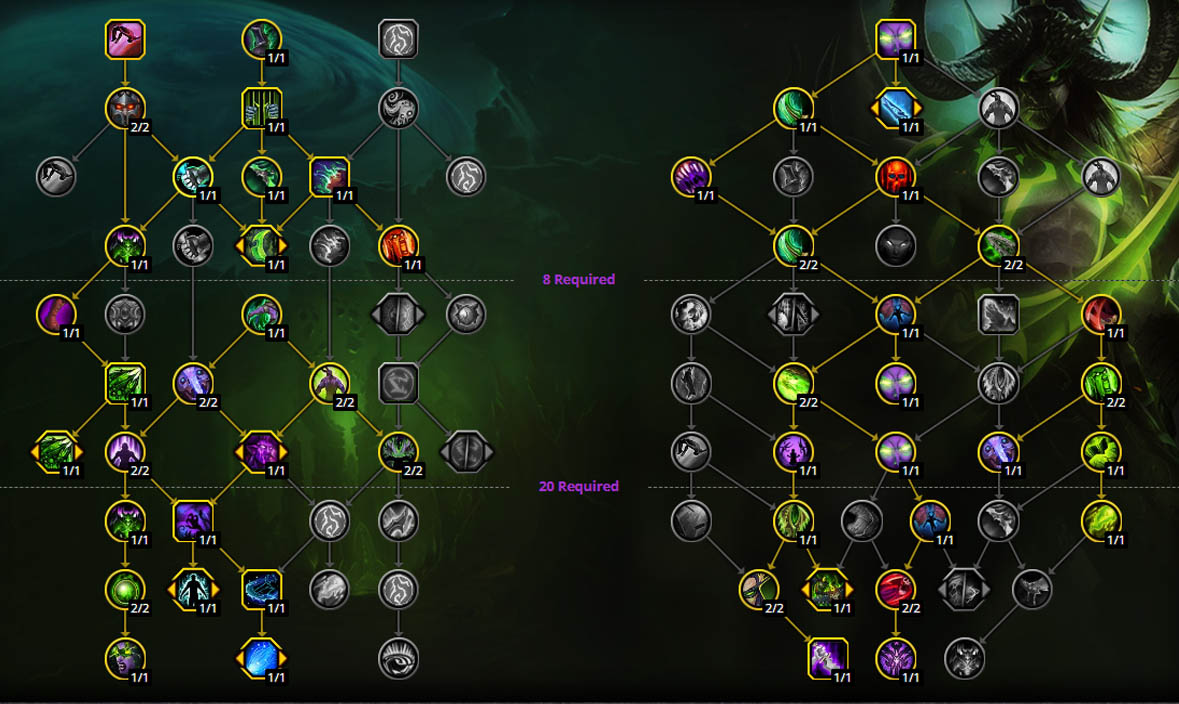
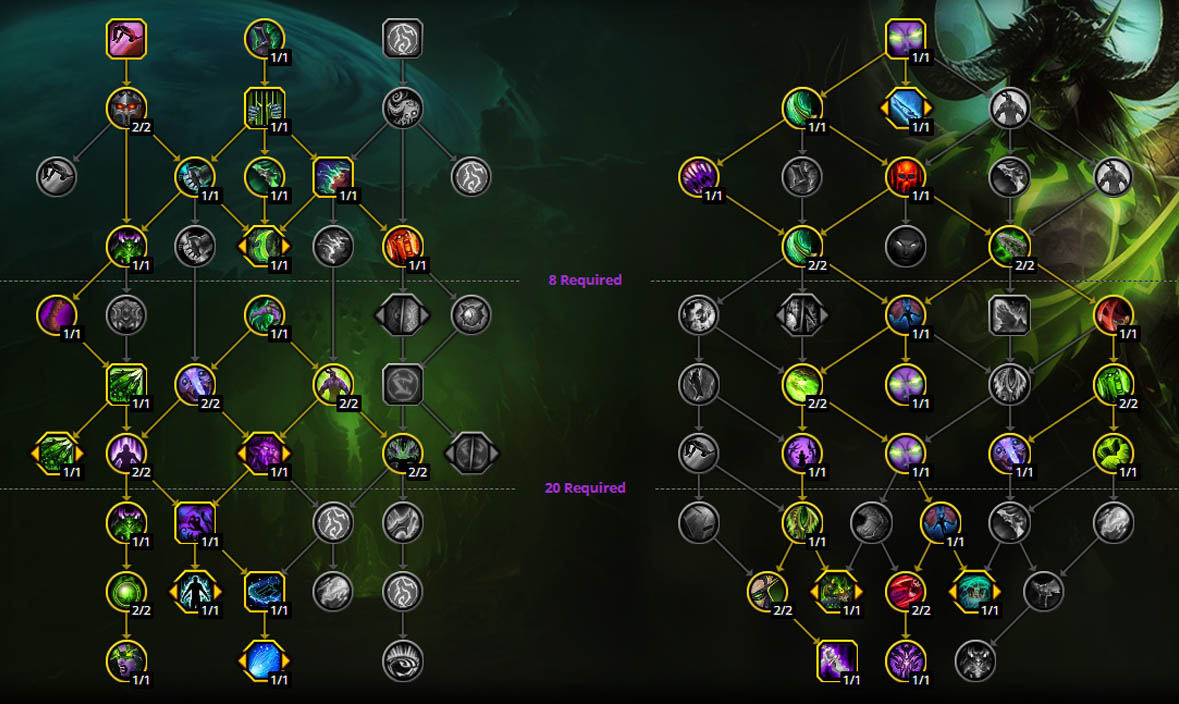
гайд 10.0

diff --git a/guide/havoc/beginners.md b/guide/havoc/beginners.md
@@ -33,13 +33,34 @@ image:
 <div class="tabs" id="tabs-1">
     <div class="tabs__nav">
       <a class="tabs__link tabs__link_active" href="#content-1">СТ/АоЕ/М+</a>
+</div>
 
-    </div>
-    <div class="tabs__content"> 
-      <div class="tabs__pane tabs__pane_show" id="content-1">
-<div class="tabs_in" markdown="1">	 
-Этот билд для Охотника на Демонов Истребления хорошо продуман и подходит для всех типов контента. Для более подробного изучения каждого таланта и более специализированных билдов для конкретных типов контента см. <a href="{{ site.url }}/guide/havoc/talent-builds.html"> Таланты и Билды</a>.
-{% include beginners.html %} 
+<div class="tabs__content"> 
+<div class="tabs__pane tabs__pane_show" id="content-1">
+<div class="tabs_in" markdown="1">	
+
+Билд отлично подойдет для тех кто хочет освоить Охотника на Демонов Истребление, этот билд поможет вам освоиться с основными механиками класса, а так же привыкнуть к использованию коротких бурст кд. Благодаря таланту [Демонический аппетит](https://wowhead.com/ru/spell=206478/) вы не будете испытывать нехватку гнева, а так же у вас не будет проблем с выживаемостью. Короткие КД помогут вам быстро справляться с врагами, что будет довольно полезно во время прокачки в новом дополнении. Так же билд подойдет для подземелий и рейдового контена. 
+
+> Для более подробного изучения каждого таланта и более специализированных билдов для конкретных типов контента см. [Таланты и Билды]({{site.url}}/guide/havoc/talent-builds.html).
+
+<p align="center" width="100%"> <img src="{{ site.url }}/assets/img/guide/havoc/dragonflight/Havoc_Essb_Demonic.jpg" style="outline: 2px solid #000;"> </p>
+
+Строка для импорта
+
+<pre>
+<code class="language-less">
+BEkAAAAAAAAAAAAAAAAAAAAAAQCIhUCSLJRkQpEBAAAAAAQLJBRKkkUgQaRKSSSSSC
+</code>
+</pre>
+
+**Классовая ветка**
+
+В классовой ветке талантов есть таланты которые вы можете поменять под ваш стиль игры:
+
+Вы можете изменить талант [Освобожденная сила](https://www.wowhead.com/ru/spell=206477/) на [Фрагменты Хаоса](https://www.wowhead.com/ru/spell=320412) чтоб получить дополнительные [Малый фрагмент души](https://www.wowhead.com/ru/spell=215393).
+
+Так же вы можете поменять способ использования [Печать страдания](https://www.wowhead.com/ru/spell=207684) - с талантом [Средоточие печатей](https://www.wowhead.com/ru/spell=207666) печать будет применяться под вашим персонажем, а [Точными печатями](https://www.wowhead.com/ru/spell=389799) печать будет применяться под целью которая нахадиться в вашем таргете. Так же вы можете обойти эти таланты через [Затерянные во тьме](https://www.wowhead.com/ru/spell=389849/) если хотите свободно применять [Печать страдания](https://www.wowhead.com/ru/spell=207684).
+
 </div>
       </div>
     </div>
@@ -58,14 +79,21 @@ image:
 <br>
 - Приоритет способностей:
 
-	1. [Метаморфоза](https://ru.wowhead.com/spell=191427)
-	1. {{ site.data.spell.Death_Sweep }} 3+ цели
-	1. [Буря клинков](https://ru.wowhead.com/spell=342817)
-    1. {{ site.data.spell.Eye_Beam }}
-	1. {{ site.data.spell.Immolation_Aura }} 
-	1. {{ site.data.spell.Blade_Dance }} 3+ цели
-    1. {{ site.data.spell.Annihilation }} / {{ site.data.spell.Chaos_Strike }}
-    1. {{ site.data.spell.Demons_Bite }}
+1. [Пронзающий взгляд](https://www.wowhead.com/ru/spell=198013) - сливаем гнев до 70 перед использованием
+1. [Метаморфоза](https://www.wowhead.com/ru/spell=191427) если КД [Пронзающий взгляд](https://www.wowhead.com/ru/spell=198013) больше 5 секунд и [Танец клинков](https://www.wowhead.com/ru/spell=188499/) / [Смертоносный взмах](https://www.wowhead.com/ru/spell=210152) > 2 секунд
+1. [Коварное отступление](https://www.wowhead.com/ru/spell=198793) - придержите использование если до восстановления [Разрыв сущности](https://www.wowhead.com/ru/spell=258860) меньше 10 сек.
+1. [Разрыв сущности](https://www.wowhead.com/ru/spell=258860) - придержите использование если до восстановления [Коварное отступление](https://www.wowhead.com/ru/spell=198793) меньше 10 сек.
+1. [Смертоносный взмах](https://www.wowhead.com/ru/spell=210152)
+1. [Аннигиляция](https://www.wowhead.com/ru/spell=201427) - если активен бафф [Разрыва сущности](https://www.wowhead.com/ru/spell=258860)
+1. [Танец клинков](https://www.wowhead.com/ru/spell=188499/)
+1. [Рывок Скверны](https://www.wowhead.com/ru/spell=195072) активация для активации [Необузданный хаос](https://www.wowhead.com/ru/spell=347461)
+1. [Охота](https://www.wowhead.com/ru/spell=370965) - старайтесь использовать в окно демонизма, но если оно не пересекается с [Разрывом сущности](https://www.wowhead.com/ru/spell=258860)
+1. [Буря клинков](https://www.wowhead.com/ru/spell=342817)
+1. [Обжигающий жар](https://www.wowhead.com/ru/spell=258920)
+1. [Удар Хаоса](https://www.wowhead.com/ru/spell=162794)
+1. [Клинок Скверны](https://www.wowhead.com/ru/spell=213243/) 80 < гнева
+1. [Волшебный поток](https://www.wowhead.com/ru/spell=28730) - ДЛЯ БЭ - если 30<  гнева 
+1. [Бросок боевого клинка](https://www.wowhead.com/ru/spell=185123) филер
 		
 <div style="text-align: -webkit-center; text-align: -moz-center;"><a class="c12 cta-button" href="{{ site.url }}/guide/havoc/rotation-priority.html" data-border="strong" data-markup-content-target="1" data-icon="true">
 <span class="cta-button-icon" style="background-image: url(&quot;https://wow.zamimg.com/images/wow/icons/medium/ability_demonhunter_specdps.jpg&quot;);">
@@ -89,43 +117,46 @@ image:
 
 ### Зачарование
 
-<ul>
-<li>Оружие: 1х {{ site.data.prof.Celestial_Guidance }} и 1х {{ site.data.prof.Sinful_Revelation }}</li>
-<li>Кольца: 2х{{ site.data.prof.Enchant_Ring_Tenet_of_Versatility }}</li>
-<li>Сапоги: {{ site.data.prof.Enchant_Boots_Eternal_Agility }}</li>
-<li>Нагрудник: {{ site.data.prof.Enchant_Chest_Eternal_Stats }}</li>
-<li>Плащ: {{ site.data.prof.Enchant_Cloak_Fortified_Leech }}</li>
-</ul>
+* Кольца: 2х [Посвящение искусности](https://www.wowhead.com/ru/spell=389294) - повышает искусность. / [Посвящение критического удара](https://www.wowhead.com/ru/spell=389292) - повышает шанс критического удара.
+* Сапоги: [Глина дозорного](https://www.wowhead.com/ru/spell=389484) - повышает выносливость.
+* Нагрудник: [Пробужденные характеристики](https://www.wowhead.com/ru/spell=389410/) - повышает основную характеристику. 
+* Плащ: [Завет избежания](https://www.wowhead.com/ru/spell=389397/) - повышает избегание.
+* Наручи: [Посвящение избегания](https://www.wowhead.com/ru/spell=389301) - повышает избегание.
 
-### Настой и  Зелья
-<ul>
-<li>Настой: {{ site.data.prof.Eternal_Flask }}</li>
-<li>Зелья: {{ site.data.prof.Potion_of_Phantom_Fire }} СТ</li>
-<li>Зелья: {{ site.data.prof.Potion_of_Empowered_Exorcisms }} АОЕ</li>
-<li>Исцеление: [Зелье космического исцеления](https://ptr.wowhead.com/spell=359870) </li>
-</ul>
+**Оружие:**
+
+* 2х [Посвящение титанов](https://www.wowhead.com/ru/spell=389550) - повышает основную характеристику.
+
+Для максимально точного подбора зачарований на кольца лучше воспользоваться рейдботсом.
+
+## Настой, Зелья и Руны
+
+* Настой: [Флакон ледового неистовства](https://www.wowhead.com/ru/item=191335)
+* Зелья: [Зелье великой мощи стихий](https://www.wowhead.com/ru/item=191383)
+* Исцеление: [Освежающее лечебное зелье](https://www.wowhead.com/ru/item=191380/)
+* Зелье невидимости [Зелье утихшего ветра](https://www.wowhead.com/ru/item=191395)
+
+Руны
+* [Драконья руна усиления](https://www.wowhead.com/ru/item=201325)
 
 ### Камни
 
-* {{ site.data.prof.Deadly_Jewel_Cluster }} — +16 к вероятности критического удара
-* {{ site.data.prof.Quick_Jewel_Cluster }} — +16 к скорости
-* {{ site.data.prof.Versatile_Jewel_Cluster }} — +16 к универсальности
+* 1 х [Покрытый письменами бесконечный алмаз](https://www.wowhead.com/ru/item=192982) - +200 к основной характеристике и +176 к вероятности критического удара.
+* [Алекстразит сенсея](https://www.wowhead.com/ru/item=192922) - +187 к вероятности критического удара и +88 к искусности.
 
 ### Еда
 
-* {{ site.data.prof.Feast_of_Gluttonous_Hedonism }} —  повышает ловкость на 20.
-* {{ site.data.prof.Phantasmal_Souffle_and_Fries }} —  повышает вероятность критического удара на 30. 
-* {{ site.data.prof.Steak_a_la_Mode }} — повышает  универсальность на 30. 
-* {{ site.data.prof.Tenebrous_Crown_Roast_Aspic }} — повышает скорость на 30.
+* [Филе с клыками](https://www.wowhead.com/ru/item=197779) - повышает вероятность критического удара на 220 на 60 мин.
+* [Запеченный в соли рыбный пирог](https://www.wowhead.com/ru/item=197781) - повышает искусность на 220 на 60 мин.
 
 ### Масло и Заточки для оружия
 
-* Масло:{{ site.data.prof.Shadowcore_Oil }} — При применении к оружию атаки и заклинания в течение 60 мин. с высокой вероятностью наносят противникам 220 ед. дополнительного урона от темной магии. 
-* Точильный камень: {{ site.data.prof.Shaded_Sharpening_Stone }} — Вы точите клинковое оружие, в результате чего сила атаки повышается на 20 на 1 час.
+* [Изначальный абразивный камень](https://www.wowhead.com/ru/item=191950) - повышает силу атаки на 135 на 60 мин.
+* [Жужжащая руна](https://www.wowhead.com/ru/item=194823/) - повышает вероятность критического удара на 827 на 120 мин.
 
 ### Накладки 
 
-* {{ site.data.prof.Heavy_Desolate_Armor_Kit }} — Укрепляет нагрудник, повышая прибавку к выносливости на 32 на 2 часа.
+* [Лютые накладки для брони](https://www.wowhead.com/ru/item=193565) - повышает выносливость на 355. Укрепленные поножи дополнительно повышают силу и ловкость на 472.
 
 <hr>
 

diff --git a/guide/havoc/rotation-priority.md b/guide/havoc/rotation-priority.md
@@ -38,22 +38,22 @@ image:
 <div class="tabs__content">
 <div class="tabs_in" markdown="1">
 
-* В начала боя [Обжигающий жар](https://www.wowhead.com/ru/spell=258920)
-* [Рывок Скверны](https://www.wowhead.com/ru/spell=195072)
-* [Клинок Скверны](https://www.wowhead.com/ru/spell=213243/)
-* [Пронзающий взгляд](https://www.wowhead.com/ru/spell=198013)
-* [Охота](https://www.wowhead.com/ru/spell=370965)
-* [Буря клинков](https://www.wowhead.com/ru/spell=342817)
-* [Аннигиляция](https://www.wowhead.com/ru/spell=201427)
-* [Коварное отступление](https://www.wowhead.com/ru/spell=198793)
-* [Смертоносный взмах](https://www.wowhead.com/ru/spell=210152)
-* [Аннигиляция](https://www.wowhead.com/ru/spell=201427)
-* [Аннигиляция](https://www.wowhead.com/ru/spell=201427)
-* [Метаморфоза](https://www.wowhead.com/ru/spell=191427)
-* [Смертоносный взмах](https://www.wowhead.com/ru/spell=210152)
-* [Аннигиляция](https://www.wowhead.com/ru/spell=201427)
-* [Пронзающий взгляд](https://www.wowhead.com/ru/spell=198013)
-* [Аннигиляция](https://www.wowhead.com/ru/spell=201427)
+1. В начала боя [Обжигающий жар](https://www.wowhead.com/ru/spell=258920)
+1. [Рывок Скверны](https://www.wowhead.com/ru/spell=195072)
+1. [Клинок Скверны](https://www.wowhead.com/ru/spell=213243/)
+1. [Пронзающий взгляд](https://www.wowhead.com/ru/spell=198013)
+1. [Охота](https://www.wowhead.com/ru/spell=370965)
+1. [Буря клинков](https://www.wowhead.com/ru/spell=342817)
+1. [Аннигиляция](https://www.wowhead.com/ru/spell=201427)
+1. [Коварное отступление](https://www.wowhead.com/ru/spell=198793)
+1. [Смертоносный взмах](https://www.wowhead.com/ru/spell=210152)
+1. [Аннигиляция](https://www.wowhead.com/ru/spell=201427)
+1. [Аннигиляция](https://www.wowhead.com/ru/spell=201427)
+1. [Метаморфоза](https://www.wowhead.com/ru/spell=191427)
+1. [Смертоносный взмах](https://www.wowhead.com/ru/spell=210152)
+1. [Аннигиляция](https://www.wowhead.com/ru/spell=201427)
+1. [Пронзающий взгляд](https://www.wowhead.com/ru/spell=198013)
+1. [Аннигиляция](https://www.wowhead.com/ru/spell=201427)
 
 </div>
 </div>
@@ -64,44 +64,51 @@ image:
 <div class="tabs__content">
 <div class="tabs_in" markdown="1">
 
-* За 2 сек. до начала боя [Волшебный поток](https://www.wowhead.com/ru/spell=28730) 
-* В начала боя [Обжигающий жар](https://www.wowhead.com/ru/spell=258920)
-* [Рывок Скверны](https://www.wowhead.com/ru/spell=195072)
-* [Пронзающий взгляд](https://www.wowhead.com/ru/spell=198013)
-* [Охота](https://www.wowhead.com/ru/spell=370965)
-* [Буря клинков](https://www.wowhead.com/ru/spell=342817)
-* [Аннигиляция](https://www.wowhead.com/ru/spell=201427)
-* [Коварное отступление](https://www.wowhead.com/ru/spell=198793)
-* [Разрыв сущности](https://www.wowhead.com/ru/spell=258860)
-* [Смертоносный взмах](https://www.wowhead.com/ru/spell=210152)
-* [Аннигиляция](https://www.wowhead.com/ru/spell=201427)
-* [Аннигиляция](https://www.wowhead.com/ru/spell=201427)
-* [Клинок Скверны](https://www.wowhead.com/ru/spell=213243/) - если у вас < 60 гнева
-* [Метаморфоза](https://www.wowhead.com/ru/spell=191427)
-* [Смертоносный взмах](https://www.wowhead.com/ru/spell=210152)
-* [Аннигиляция](https://www.wowhead.com/ru/spell=201427)
-* [Пронзающий взгляд](https://www.wowhead.com/ru/spell=198013)
-* [Аннигиляция](https://www.wowhead.com/ru/spell=201427)
+1. За 2 сек. до начала боя [Волшебный поток](https://www.wowhead.com/ru/spell=28730) 
+1. В начала боя [Обжигающий жар](https://www.wowhead.com/ru/spell=258920)
+1. [Рывок Скверны](https://www.wowhead.com/ru/spell=195072)
+1. [Пронзающий взгляд](https://www.wowhead.com/ru/spell=198013)
+1. [Охота](https://www.wowhead.com/ru/spell=370965)
+1. [Буря клинков](https://www.wowhead.com/ru/spell=342817)
+1. [Аннигиляция](https://www.wowhead.com/ru/spell=201427)
+1. [Коварное отступление](https://www.wowhead.com/ru/spell=198793)
+1. [Разрыв сущности](https://www.wowhead.com/ru/spell=258860)
+1. [Смертоносный взмах](https://www.wowhead.com/ru/spell=210152)
+1. [Аннигиляция](https://www.wowhead.com/ru/spell=201427)
+1. [Аннигиляция](https://www.wowhead.com/ru/spell=201427)
+1. [Клинок Скверны](https://www.wowhead.com/ru/spell=213243/) - если у вас < 60 гнева
+1. [Метаморфоза](https://www.wowhead.com/ru/spell=191427)
+1. [Смертоносный взмах](https://www.wowhead.com/ru/spell=210152)
+1. [Аннигиляция](https://www.wowhead.com/ru/spell=201427)
+1. [Пронзающий взгляд](https://www.wowhead.com/ru/spell=198013)
+1. [Аннигиляция](https://www.wowhead.com/ru/spell=201427)
 
 </div>
 </div>
 
 **Список приоритетов**
 
-* [Метаморфоза](https://www.wowhead.com/ru/spell=191427) если КД [Пронзающий взгляд](https://www.wowhead.com/ru/spell=198013) больше 5 секунд и [Танец клинков](https://www.wowhead.com/ru/spell=188499/) / [Смертоносный взмах](https://www.wowhead.com/ru/spell=210152) > 2 секунд
-* [Пронзающий взгляд](https://www.wowhead.com/ru/spell=198013) - сливаем гнев перед бимом
-* [Коварное отступление](https://www.wowhead.com/ru/spell=198793) (допустимо чуть придержать если [Обжигающий жар](https://www.wowhead.com/ru/spell=258920), а соответственно и [Необузданный хаос](https://www.wowhead.com/ru/spell=347461) будет скоро готов. То же самое касается [Охоты](https://www.wowhead.com/ru/spell=370965)). Как видно из списка приоритетов, <[Охота](https://www.wowhead.com/ru/spell=370965) под баффом имеет гораздо больший приоритет.
-* [Буря клинков](https://www.wowhead.com/ru/spell=342817)
-* [Охота](https://www.wowhead.com/ru/spell=370965)
-* [Смертоносный взмах](https://www.wowhead.com/ru/spell=210152) / [Танец клинков](https://www.wowhead.com/ru/spell=188499/)
-* [Рывок Скверны](https://www.wowhead.com/ru/spell=195072) активация для активации [Необузданный хаос](https://www.wowhead.com/ru/spell=347461)
-* [Аннигиляция](https://www.wowhead.com/ru/spell=201427) / [Удар Хаоса](https://www.wowhead.com/ru/spell=162794)
-* [Обжигающий жар](https://www.wowhead.com/ru/spell=258920)
-* [Клинок Скверны](https://www.wowhead.com/ru/spell=213243/) 80 < гнева
-* [Волшебный поток](https://www.wowhead.com/ru/spell=28730) - ДЛЯ БЭ - если 30<  гнева 
-* [Бросок боевого клинка](https://www.wowhead.com/ru/spell=185123) филер
+1. [Метаморфоза](https://www.wowhead.com/ru/spell=191427) если КД [Пронзающий взгляд](https://www.wowhead.com/ru/spell=198013) больше 5 секунд и [Танец клинков](https://www.wowhead.com/ru/spell=188499/) / [Смертоносный взмах](https://www.wowhead.com/ru/spell=210152) > 2 секунд
+1. [Пронзающий взгляд](https://www.wowhead.com/ru/spell=198013) - сливаем гнев перед бимом
+1. [Коварное отступление](https://www.wowhead.com/ru/spell=198793) (допустимо чуть придержать если [Обжигающий жар](https://www.wowhead.com/ru/spell=258920), а соответственно и [Необузданный хаос](https://www.wowhead.com/ru/spell=347461) будет скоро готов. То же самое касается [Охоты](https://www.wowhead.com/ru/spell=370965)). Как видно из списка приоритетов, <[Охота](https://www.wowhead.com/ru/spell=370965) под баффом имеет гораздо больший приоритет.
+1. [Буря клинков](https://www.wowhead.com/ru/spell=342817)
+1. [Охота](https://www.wowhead.com/ru/spell=370965)
+1. [Смертоносный взмах](https://www.wowhead.com/ru/spell=210152) / [Танец клинков](https://www.wowhead.com/ru/spell=188499/)
+1. [Рывок Скверны](https://www.wowhead.com/ru/spell=195072) активация для активации [Необузданный хаос](https://www.wowhead.com/ru/spell=347461)
+1. [Аннигиляция](https://www.wowhead.com/ru/spell=201427) / [Удар Хаоса](https://www.wowhead.com/ru/spell=162794)
+1. [Обжигающий жар](https://www.wowhead.com/ru/spell=258920)
+1. [Клинок Скверны](https://www.wowhead.com/ru/spell=213243/) 80 < гнева
+1. [Волшебный поток](https://www.wowhead.com/ru/spell=28730) - ДЛЯ БЭ - если 30<  гнева 
+1. [Бросок боевого клинка](https://www.wowhead.com/ru/spell=185123) филер
 
 Очень важно, после каждой активации формы демона **ВСЕГДА** использовать [Аннигиляцию](https://www.wowhead.com/ru/spell=201427)
 
 </div>
 </div>
+
+<hr>
+
+<div class="minibox minibox-left"><a href="{{ site.url }}/guide/havoc/beginners.html">Назад:<br>Новичкам</a></div>
+<div class="minibox"><a href="{{ site.url }}/guide/havoc/stats.html">Далее:<br>Характеристики</a></div>
+
+<br>

diff --git a/guide/havoc/consumables.md b/guide/havoc/consumables.md
@@ -37,27 +37,17 @@ image:
 * Наручи: [Посвящение избегания](https://www.wowhead.com/ru/spell=389301) - повышает избегание.
 
 **Оружие:**
-**Рейд СТ**
 
-* 1х [Посвящение титанов](https://www.wowhead.com/ru/spell=389550) - повышает основную характеристику.
-* 1х [Земляной завет](https://www.wowhead.com/ru/spell=389540/) - повышает искусность.
-* 1х [Пылающий завет](https://www.wowhead.com/ru/spell=389537) - повышает критический удар.
-
-**M+ АоЕ**
-
-* 1х [Посвящение титанов](https://www.wowhead.com/ru/spell=389550) - повышает основную характеристику.
-* 1х [Земляной завет](https://www.wowhead.com/ru/spell=389540/) - повышает искусность.
-
+* 2х [Посвящение титанов](https://www.wowhead.com/ru/spell=389550) - повышает основную характеристику.
 
 Для максимально точного подбора зачарований на кольца лучше воспользоваться рейдботсом.
 
 ## Настой, Зелья и Руны
 
 * Настой: 
-    * [Флакон ледового неистовства](https://www.wowhead.com/ru/item=191333/)  
-    * [Флакон стихийного хаоса](https://www.wowhead.com/ru/item=191359) ?
-    * [Замерзший флакон оскверняющей ярости](https://www.wowhead.com/ru/item=191329) ?
-    * []()
+    * [Флакон ледового неистовства](https://www.wowhead.com/ru/item=191335)  
+    * [Флакон стихийного хаоса](https://www.wowhead.com/ru/item=191359) 
+    * [Замерзший флакон оскверняющей ярости](https://www.wowhead.com/ru/item=191329) 
 * Зелья: [Зелье великой мощи стихий](https://www.wowhead.com/ru/item=191383)
 * Исцеление: [Освежающее лечебное зелье](https://www.wowhead.com/ru/item=191380/)
 * Зелье невидимости [Зелье утихшего ветра](https://www.wowhead.com/ru/item=191395)
@@ -68,12 +58,13 @@ image:
 
 ## Лучшие Камни
 
-* [Мастерский бесконечный алмаз](https://www.wowhead.com/ru/item=192988) - +20 к основной характеристике и +18 к искусности.
-* [Покрытый письменами бесконечный алмаз](https://www.wowhead.com/ru/item=192982/) - +20 к основной характеристике и +18 к вероятности критического удара.
+* 1 х [Покрытый письменами бесконечный алмаз](https://www.wowhead.com/ru/item=192982) - +200 к основной характеристике и +176 к вероятности критического удара.
+* [Алекстразит сенсея](https://www.wowhead.com/ru/item=192922) - +187 к вероятности критического удара и +88 к искусности.
 
-* [Растрескавшийся нелтарит](https://www.wowhead.com/ru/item=192967) - +36 к искусности.
-* [Смертоносный алекстразит](https://www.wowhead.com/ru/item=192928/) - +36 к вероятности критического удара.
-* [Алекстразит сенсея](https://www.wowhead.com/ru/item=192922) - +22 к вероятности критического удара и +14 к искусности.
+Так же можно рассмотреть другие камни чтоб подогнать характеристики:
+* [Смертоносный алекстразит](https://www.wowhead.com/ru/item=192928/) - +235 к вероятности критического удара.
+* [Растрескавшийся нелтарит](https://www.wowhead.com/ru/item=192967) - +235 к искусности.
+* [Нелтарит сенсея](https://www.wowhead.com/ru/item=192958) - +187 к искусности и +88 к вероятности критического удара.
 
 Воспользуйтесь рейдботсом чтоб узнать какая характеристика вам дает максимальную прибавку урона
 
@@ -100,6 +91,7 @@ image:
 ## Накладки
 
 * [Лютые накладки для брони](https://www.wowhead.com/ru/item=193565) - повышает выносливость на 355. Укрепленные поножи дополнительно повышают силу и ловкость на 472.
+
 <hr>
 
 <div class="minibox minibox-left"><a href="{{ site.url }}/guide/havoc/stats.html">Назад:<br>Характеристики</a></div>

diff --git a/guide/havoc/gear.md b/guide/havoc/gear.md
@@ -68,7 +68,7 @@ image:
 Сетовый набор состоит из пяти предметов снаряжения:
 
 * <span class="q4">[Шлем небесного мстителя](https://www.wowhead.com/ru/item=200345)</span> (**Голова** [**Colossal Stormfiend**](https://www.wowhead.com/ru/npc=197145/))
-* <span class="q4">[Элероны небесного мстителя](https://www.wowhead.com/ru/item=200347)</span> (**Плечи** [**Broodkeeper Diurna**](hhttps://www.wowhead.com/ru/npc=190245))
+* <span class="q4">[Элероны небесного мстителя](https://www.wowhead.com/ru/item=200347)</span> (**Плечи** [**Broodkeeper Diurna**](https://www.wowhead.com/ru/npc=190245))
 * <span class="q4">[Портупея небесного мстителя](https://www.wowhead.com/ru/item=200342)</span> (**Грудь** [**Kurog Grimtotem**](https://www.wowhead.com/ru/npc=184986/))
 * <span class="q4">[Захваты небесного мстителя](https://www.wowhead.com/ru/item=200344)</span> (**Перчатки** [**Dathea, Ascended**](https://www.wowhead.com/ru/npc=189813))
 * <span class="q4">[Набедренники небесного мстителя](https://www.wowhead.com/ru/item=200346/)</span> (**Ноги** [**Caustic Spiderling**](https://www.wowhead.com/ru/npc=189233/))
@@ -84,8 +84,12 @@ image:
 
 ## Аксессуар
 
-* [Трофейный катализатор синтеза](https://ru.wowhead.com/item=186432) - наносит много урона и имеет небольшое КД.
-* [Тайник с присвоенными сокровищами](https://ru.wowhead.com/item=188265/) - если на боссе нет мест где нужно придерживать использование трыни то она будет отличным выбором вместо тотема, очень сильная для м+.
+* [Одержимый светоч горя](https://www.wowhead.com/ru/item=194308) - наносит много урона и имеет небольшое КД.
+* [Знак воплощения шепота](https://www.wowhead.com/ru/item=194301)
+* [Благословение Пожирательницы Бурь](https://www.wowhead.com/ru/item=194302/)
+* [Алгет'арская шкатулка с секретом](https://www.wowhead.com/ru/item=193701)
+* [Голод стаи](https://www.wowhead.com/ru/item=136975)
+* [Рог доблести](https://www.wowhead.com/ru/item=133642)
 
 ## Уровни предметов эпохальных+ подземелий и рейда в 1 сезоне Dragonflight
 

diff --git a/guide/havoc/talent-builds.md b/guide/havoc/talent-builds.md
@@ -36,8 +36,9 @@ image:
 <div class="tabs">
 <div class="tabs__nav">
 <a class="tabs__link tabs__link_active" href="#content-1">СТ билд</a>
-<a class="tabs__link" href="#content-2">АоЕ билд</a>
-<a class="tabs__link" href="#content-3">AoE/Клив билд</a>
+<a class="tabs__link" href="#content-2">СТ Импульс билд</a>
+<a class="tabs__link" href="#content-3">АоЕ билд</a>
+<a class="tabs__link" href="#content-4">AoE/Клив билд</a>
 </div>
 
 <div class="tabs__content">
@@ -66,6 +67,24 @@ BEkAAAAAAAAAAAAAAAAAAAAAAQSSIhUCSLJRSCQAAAAAAAUiEkWKRSChQaoIRkkkE
 <div class="tabs__pane" id="content-2" >
 <div class="tabs_in" markdown="1">
 
+<p align="center" width="100%"> <img src="{{ site.url }}/assets/img/guide/havoc/dragonflight/havoc_ST_momentum.jpg" style="outline: 2px solid #000;"> </p>
+ 
+Строка для импорта
+
+<pre>
+<code class="language-less">
+BEkAAAAAAAAAAAAAAAAAAAAAAQCIhUCSLJRSCQAAAAAAAUiEkWKRSSBCplESSkkkE
+</code>
+</pre>
+
+Билд с самым высоким ДПС по симкрафту.
+
+</div>
+</div>
+
+<div class="tabs__pane" id="content-3" >
+<div class="tabs_in" markdown="1">
+
 <p align="center" width="100%"> <img src="{{ site.url }}/assets/img/guide/havoc/dragonflight/havoc_AoE_Essb_Mastery.jpg" style="outline: 2px solid #000;"> </p>
  
 Строка для импорта
@@ -89,7 +108,7 @@ BEkAAAAAAAAAAAAAAAAAAAAAAgkkkkIlg0SSEJUKRAAAAAAAUSSQkCJRJIJplEIBSA
 </div>
 </div>
 
-<div class="tabs__pane" id="content-3">
+<div class="tabs__pane" id="content-4">
 <div class="tabs_in"  markdown="1">
   
 <p align="center" width="100%"> <img src="{{ site.url }}/assets/img/guide/havoc/dragonflight/Havoc_Essb_Demonic.jpg" style="outline: 2px solid #000;"> </p>
